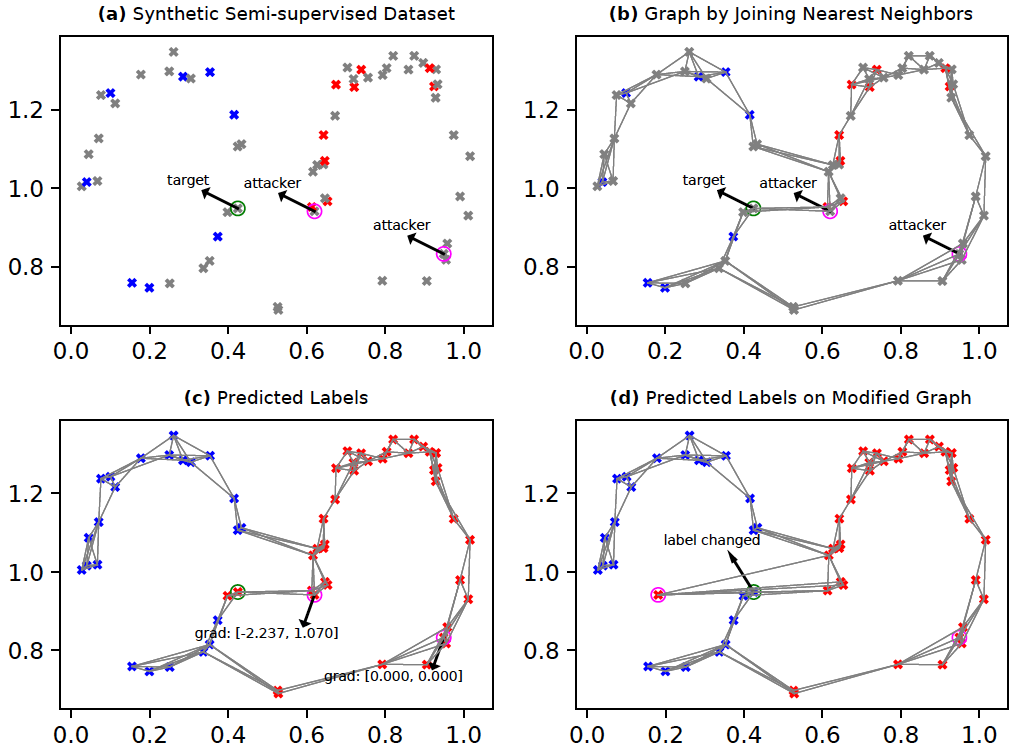
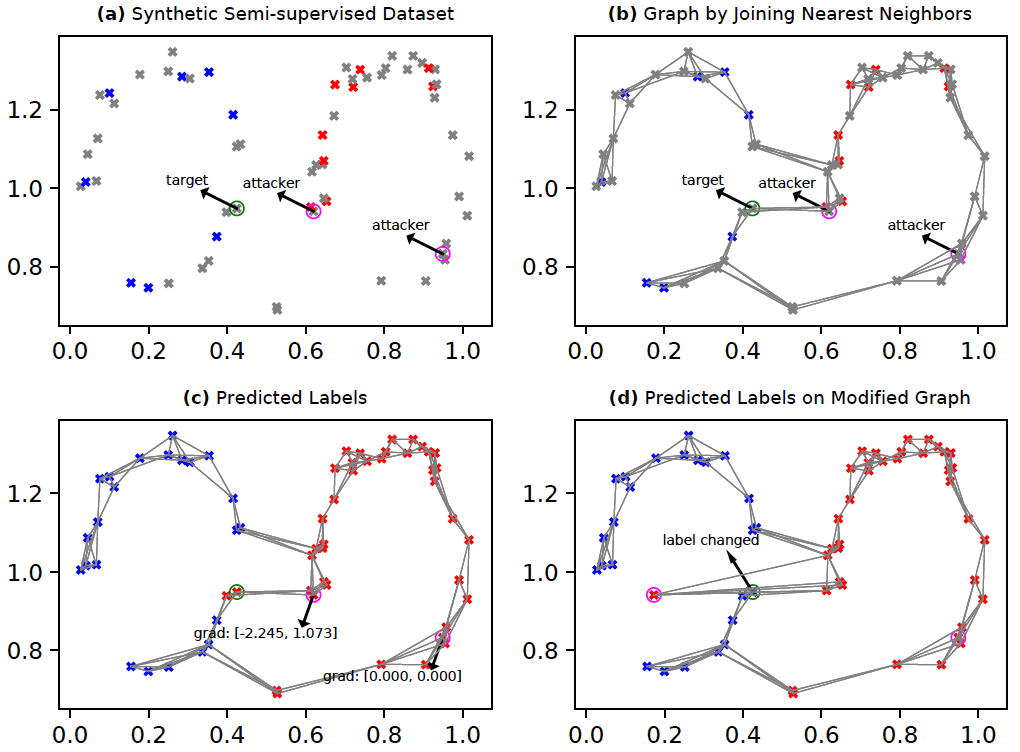
Added more GCN parameters to commandline options

diff --git a/python/graph/test_gcn.py b/python/graph/test_gcn.py
@@ -5,7 +5,7 @@ os.environ['TF_CPP_MIN_LOG_LEVEL'] = '2'
 
 from common.gen_samples import *
 from .simple_gcn import SimpleGCN, EnsembleGCN, SimpleGCNAttack, set_random_seeds, \
-    get_gcn_option_list, GcnOpts
+    get_gcn_option_list, GcnOpts, activation_types, ACTIVATION_LRELU
 from .gcn_test_support import read_graph_dataset, get_target_and_attack_nodes, \
     plot_graph, gradients_to_arrow_texts, nodes_to_arrow_texts, \
     test_edge_sample, test_tensorflow_array_differentiation, test_marked_nodes
@@ -94,18 +94,17 @@ def plot_model_diagnostics(attack_model, mod_node=None, attack_grads=None, pdfpa
     dp.close()
 
 
-def create_gcn(input_shape, n_neurons, activations, n_classes,
-               ensemble=False, learning_rate=0.1, l2_lambda=0.001, opts=None):
-    if ensemble:
+def create_gcn(input_shape, n_neurons, activations, n_classes, opts=None):
+    if opts.ensemble:
         gcn = EnsembleGCN(input_shape=input_shape, n_neurons=n_neurons, activations=activations,
                           n_classes=n_classes, n_estimators=opts.n_estimators,
-                          max_epochs=opts.n_epochs, learning_rate=learning_rate,
-                          l2_lambda=l2_lambda, rand_seed=opts.randseed,
+                          max_epochs=opts.n_epochs, learning_rate=opts.learning_rate,
+                          l2_lambda=opts.l2_lambda, rand_seed=opts.randseed,
                           edge_sample_prob=opts.edge_sample_prob)
     else:
         gcn = SimpleGCN(input_shape=input_shape, n_neurons=n_neurons, activations=activations,
                         n_classes=n_classes, max_epochs=opts.n_epochs,
-                        learning_rate=learning_rate, l2_lambda=l2_lambda,
+                        learning_rate=opts.learning_rate, l2_lambda=opts.l2_lambda,
                         rand_seed=opts.randseed)
     return gcn
 
@@ -116,11 +115,10 @@ def test_gcn(opts):
     # Changing the below will change the output plots as well
     sub_sample = 0.3
     labeled_frac = 0.3
-    n_neighbors = 5  # includes self
 
     x, y, y_orig, A = read_graph_dataset(dataset, sub_sample=sub_sample,
                                          labeled_frac=labeled_frac,
-                                         n_neighbors=n_neighbors,
+                                         n_neighbors=opts.n_neighbors,
                                          euclidean=False)
 
     # Number of classes includes the '0' class and excludes all marked '-1' i.e., unlabeled.
@@ -131,20 +129,18 @@ def test_gcn(opts):
 
     target_nodes, attack_nodes = get_target_and_attack_nodes(x, dataset)
 
-    learning_rate = 0.1
-    l2_lambda = 0.001
     search_along_max_grad_feature = True
 
-    # Two NN layers implies max two-hop information propagation
+    # 'L' Neural Network layers implies max L-hop information propagation
     # through graph by the GCN in each forward/backward propagation.
-    n_neurons = [10, n_classes]
-    activations = [tf.nn.leaky_relu, None]
-    # activations = [None, None]
-    # activations = [tf.nn.sigmoid, None]
-    # activations = [tf.nn.tanh, None]
+    n_neurons = [opts.n_neurons_per_layer] * (opts.n_layers-1)
+    n_neurons.append(n_classes)
+
+    activations = [activation_types[opts.activation_type]] * (opts.n_layers-1)
+    activations.append(None)  # the last layer will only return the logits
+
     gcn = create_gcn(input_shape=x.shape, n_neurons=n_neurons, activations=activations,
-                     n_classes=n_classes, ensemble=opts.ensemble,
-                     learning_rate=learning_rate, l2_lambda=l2_lambda, opts=opts)
+                     n_classes=n_classes, opts=opts)
 
     gcn.fit(x, y, A)
 
@@ -173,7 +169,7 @@ def test_gcn(opts):
                 logger.debug("Suggested node: %d, feature: %d, grads: %s" % (attack_node, feature, grads))
 
         if opts.plot and x.shape[1] == 2:  # plot only if 2D dataset
-            fsig = "%s_l%d" % (opts.get_opts_name_prefix(), len(n_neurons))
+            fsig = opts.get_opts_name_prefix()
             pdfpath = "%s/%s.pdf" % (opts.results_dir, fsig)
             plot_model_diagnostics(attack_model, mod_node=mod_node, attack_grads=all_grads, pdfpath=pdfpath)
 

diff --git a/python/graph/simple_gcn.py b/python/graph/simple_gcn.py
@@ -4,6 +4,16 @@ import tensorflow as tf
 from common.gen_samples import *
 
 
+ACTIVATION_NONE = "none"
+ACTIVATION_RELU = "relu"
+ACTIVATION_TANH = "tanh"
+ACTIVATION_SIGM = "sigmoid"
+ACTIVATION_LRELU = "leaky_relu"
+activation_types = {ACTIVATION_NONE: None, ACTIVATION_RELU: tf.nn.relu,
+                    ACTIVATION_SIGM: tf.nn.sigmoid, ACTIVATION_TANH: tf.nn.tanh,
+                    ACTIVATION_LRELU: tf.nn.leaky_relu}
+
+
 def set_random_seeds(py_seed=42, np_seed=42, tf_seed=42):
     """ Set random seeds for Python, numpy, TensorFlow graph """
     random.seed(py_seed)
@@ -792,6 +802,19 @@ def get_gcn_option_list():
                         help="Dataset name")
     parser.add_argument("--results_dir", action="store", default="./temp",
                         help="Folder where the generated metrics will be stored")
+    parser.add_argument("--n_layers", type=int, default=2, required=False,
+                        help="Number of layers in GCN (includes output, but excludes input)")
+    parser.add_argument("--n_neurons_per_layer", type=int, default=10, required=False,
+                        help="Number of neurons in each *hidden* GCN layer. "
+                             "For the output layer, this will be set to the number of classes.")
+    parser.add_argument("--activation_type", type=str, default=ACTIVATION_LRELU, required=False,
+                        help="The type of activation for each *hidden* GCN layer. "
+                             "Options: (none|relu|tanh|leaky_relu|sigmoid) "
+                             "Output layer will *not* have any activation")
+    parser.add_argument("--learning_rate", action="store", type=float, default=0.1,
+                        help="Learning rate for batch gradient descent")
+    parser.add_argument("--l2_lambda", action="store", type=float, default=0.001,
+                        help="L2-regularization penalty for all weight parameters.")
     parser.add_argument("--randseed", action="store", type=int, default=42,
                         help="Random seed so that results can be replicated")
     parser.add_argument("--ensemble", action="store_true", default=False,
@@ -819,6 +842,11 @@ class GcnOpts(object):
     def __init__(self, args):
         self.dataset = args.dataset
         self.results_dir = args.results_dir
+        self.n_layers = args.n_layers
+        self.n_neurons_per_layer = args.n_neurons_per_layer
+        self.activation_type = args.activation_type
+        self.learning_rate = args.learning_rate
+        self.l2_lambda = args.l2_lambda
         self.randseed = args.randseed
         self.ensemble = args.ensemble
         self.edge_sample_prob = args.edge_sample_prob
@@ -831,7 +859,11 @@ class GcnOpts(object):
         self.plot = args.plot
 
     def get_opts_name_prefix(self):
-        gcn_sig = "egcn_m%d" % self.n_estimators if self.ensemble else "gcn"
+        gcn_sig = "%s_l%d_n%d_%s_r%0.3f_p%0.4f" % \
+                  ("egcn_m%d" % self.n_estimators if self.ensemble else "gcn",
+                   self.n_layers, self.n_neurons_per_layer, self.activation_type,
+                   self.learning_rate, self.l2_lambda)
+        gcn_sig = gcn_sig.replace(".", "")
         edge_prob_sig = "_e%0.2f" % self.edge_sample_prob if self.ensemble else ""
         edge_prob_sig = edge_prob_sig.replace(".", "")
         algo_sig = "%s%s" % (gcn_sig, edge_prob_sig)

diff --git a/README.md b/README.md
@@ -435,7 +435,7 @@ GCNs (Kipf and Welling, 2017) are a neural network based technique for learning 
 
 **Attack:** We will employ a simple form of node feature-modification based attack as proposed in *Nettack* (Zugner et al., 2018). Here, the goal is to change the label of the target node from its current most likely label (c_old) to its second-most likely label (c_new). For this, we first compute the gradient of the difference in target node logits between c_new and c_old w.r.t the attacker node(s). Next, we find the attacker node which has the highest absolute gradient for any feature. We then find the minimum change required for the corresponding attacker node and feature such that the target node's label prediction changes. Finally, we add this minimum required change to the attacker node.
 
-Figure **(c)** shows the gradients for the two attack nodes. In this example setup, our GCN has two layers which implies a maximum of two hops for the information/gradient flow during forward-backward propagation. Since the right-most attacker node is more than two-hop distance away from the target node, it has *immediate* gradient=[0, 0] (in reality, computing exact gradient on nodes farther away is tricky). The left attacker node's first feature has the highest absolute gradient (2.237). Therefore, we move the left attacker along the first feature axis in the direction suggested by the gradient -- in this case we move the attacker node to left. We see in Figure **(d)** that the target node's predicted label changes from red to blue by moving the attacker node as explained. We could, alternatively, search along the full gradient direction instead of just the highest-gradient feature. Moreover, we could limit the search for the best attack node to only those attack nodes which are within as many hops from the target as there are layers in the GCN.
+Figure **(c)** shows the gradients for the two attack nodes. In this example setup, our GCN has two layers which implies a maximum of two hops for the information/gradient flow during forward-backward propagation. Since the right-most attacker node is more than two-hop distance away from the target node, it has *immediate* gradient=[0, 0] (in reality, computing exact gradient on nodes farther away is tricky). The left attacker node's first feature has the highest absolute gradient (2.245). Therefore, we move the left attacker along the first feature axis in the direction suggested by the gradient -- in this case we move the attacker node to left. We see in Figure **(d)** that the target node's predicted label changes from red to blue by moving the attacker node as explained. We could, alternatively, search along the full gradient direction instead of just the highest-gradient feature. Moreover, we could limit the search for the best attack node to only those attack nodes which are within as many hops from the target as there are layers in the GCN.
 
 **Implementation:** (Zugner et al., 2018) have proposed a very simple network for the GCN (nettack). This simplifies computation of the derivative of logit difference w.r.t input features. It also helps scale the network better in the transductive setting. However, since our intent here is to understand GCNs and experiment with them in a minimally restricted manner, we have implemented the GCN in this codebase so that we can employ any arbitrarily complex network with arbitrary number of layers. *Also, (Zugner et al., 2018) supports updates to the adjacency matrix, but we currently do not.*
 
@@ -446,7 +446,7 @@ Figure **(c)** shows the gradients for the two attack nodes. In this example set
 
 Robustness with ensembles
 -------------------------
-One commonly suggested technique to improve robustness of deep networks is to use *ensembles*. For GCNs, we can train multiple GCN models with subsampled edges. This means that although the nodes of the graph remain the same across all models, the adjacency matrices differ. The below command creates such a model with 10 members. The corresponding results are shown below. Here, we see that in Figure **(c)** the gradients are now smaller in magnitude. This implies that the attacker node's influence is somewhat diminished. As a result, the attribute(s) of the attacker need to change more (Figure **(d)**) to flip the target's label. Of course, this is just one data point. A more rigorous analysis would look at the results averaged across multiple nodes.
+One commonly suggested technique to improve robustness of deep networks is to use *ensembles*. For GCNs, we can train multiple GCN models with subsampled edges. This means that although the nodes of the graph remain the same across all models, the adjacency matrices differ. The below command creates such a model with 10 members. The corresponding results are shown below. Here, we see that in Figure **(c)** the gradients are now smaller in magnitude. This implies that the attacker node's influence is somewhat diminished. As a result, the attribute(s) of the attacker need to change more (Figure **(d)**) to flip the target's label. Of course, this is just one data point and hence not scientific. **A more rigorous analysis would look at the results averaged across multiple nodes.**
 
     pythonw -m graph.test_gcn --debug --plot --results_dir=./temp/gcn --log_file=temp/test_gcn.log --dataset=face_top --ensemble --n_estimators=10 --edge_sample_prob=0.6
 
